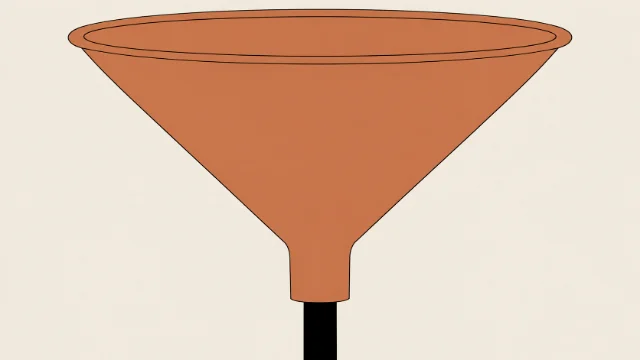
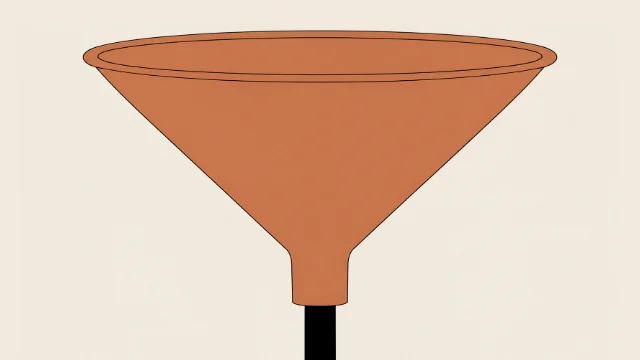
The funnel gets a band above its rim, and the hard hat wears its strap
Two of the four "How I work" cards, and the two faults are different
kinds, so they are fixed by different means.

01's funnel came back from the generator with 21px of cream above its
rim on a 941px drawing -- 2.2%, where the prompt asked for a twentieth
and where 02, standing next to it, happens to carry 134px. Side by side
that is the one card jammed into its frame. The drawing is fine, so it
is not redrawn: `illustrate.mjs --breathe 0.94` sets it at 94% of the
slot on its own ground, centred and anchored to the bottom edge. The
band it was short of lands at the top (21px of source becomes 22px of a
360px card, and the sides go 10.4% -> 12.8%) and the black stream still
runs off the bottom, which is where it was drawn to leave.

`--breathe` is a new flag rather than a scratch canvas because the inbox
PNGs are gitignored: a framing done by hand here is one nobody can redo.
It is refused on hero, wall, grain and report, which measure a file
rather than frame one. The anchor is deliberately not the centre --
these compositions hang one black shape off an edge, and centring lifts
that shape off the edge, which reads as a different picture.

03 could not be framed into what was asked for. Its hat was cropped by
the left edge with the strap swooping off the right, and the ask was a
hat centred and whole with the strap worn where a strap is worn. Redrawn
through `draw.mjs --set proof`: both ends fastened to the shell, a deep
[…]

diff --git a/index.html b/index.html
@@ -499,7 +499,7 @@
         <div class="engagement-grid stagger">
           <a class="engagement-card reveal" href="writing/how-i-move-a-complex-workflow-from-ambiguity-to-release.html">
             <span class="engagement-num" aria-hidden="true">01</span>
-            <div class="engagement-figure"><img src="img/engagement/01-clarity.webp?v=11" width="640" height="360" alt="A large terracotta funnel filling most of the frame with a narrow band of cream above its rim and at each side, one solid black stream falling straight from its spout and off the bottom edge" loading="lazy" decoding="async" /></div>
+            <div class="engagement-figure"><img src="img/engagement/01-clarity.webp?v=12" width="640" height="360" alt="A large terracotta funnel filling most of the frame with a narrow band of cream above its rim and at each side, one solid black stream falling straight from its spout and off the bottom edge" loading="lazy" decoding="async" /></div>
             <h3>Turn ambiguity into a decision</h3>
             <ul class="engagement-points">
               <li>The problem in one sentence everyone recognizes</li>
@@ -521,7 +521,7 @@
           </a>
           <a class="engagement-card reveal" href="case-study/dispatch-complexity.html">
             <span class="engagement-num" aria-hidden="true">03</span>
-            <div class="engagement-figure"><img src="img/engagement/03-embedded.webp?v=9" width="640" height="360" alt="A large sage hard hat anchored in the top-left corner of the frame with its brim and dome fully visible, its black chinstrap hanging beneath it in one natural curve that rises and runs off the right edge" loading="lazy" decoding="async" /></div>
+            <div class="engagement-figure"><img src="img/engagement/03-embedded.webp?v=10" width="640" height="360" alt="A large sage hard hat drawn whole in the middle of the frame with cream above and beside it, its black chinstrap hanging from the hat in one deep loop that runs down past the bottom edge and back up to the brim" loading="lazy" decoding="async" /></div>
             <h3>Own the design inside the team, not beside it</h3>
             <ul class="engagement-points">
               <li>Learn the job before redesigning the tool</li>
